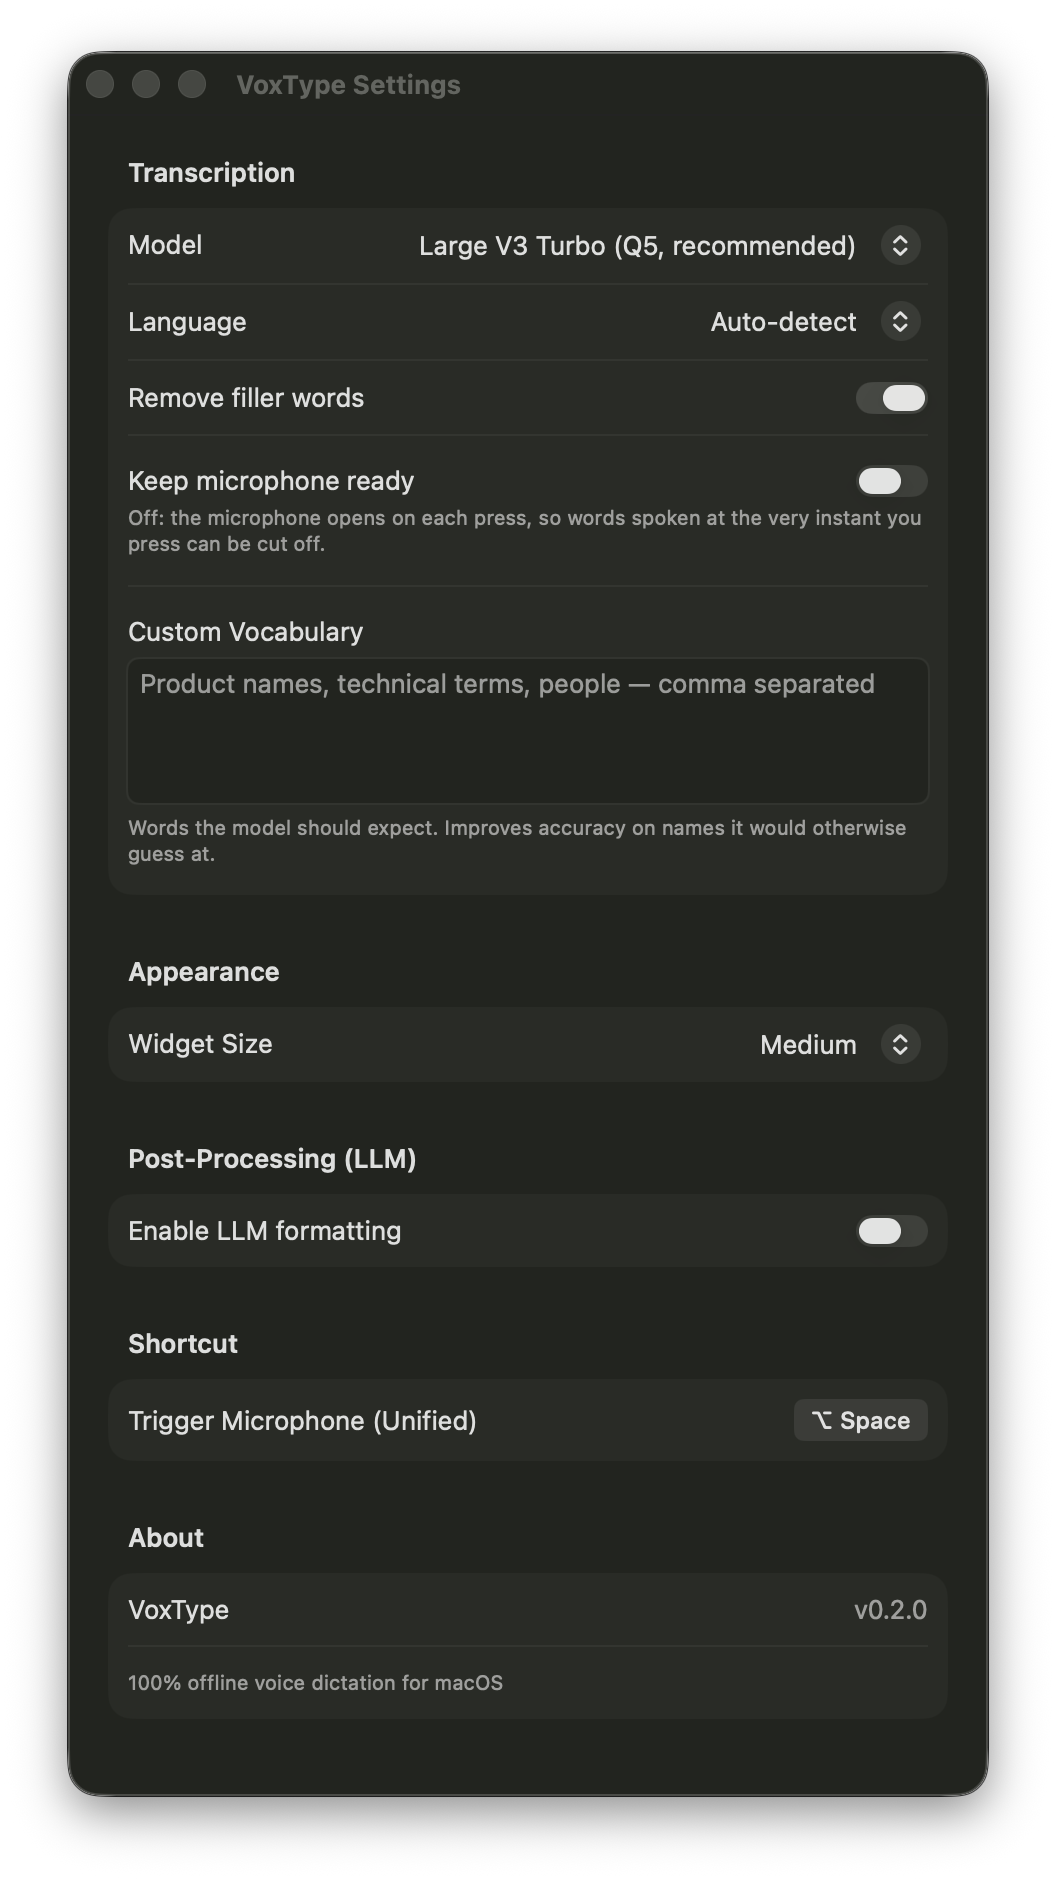
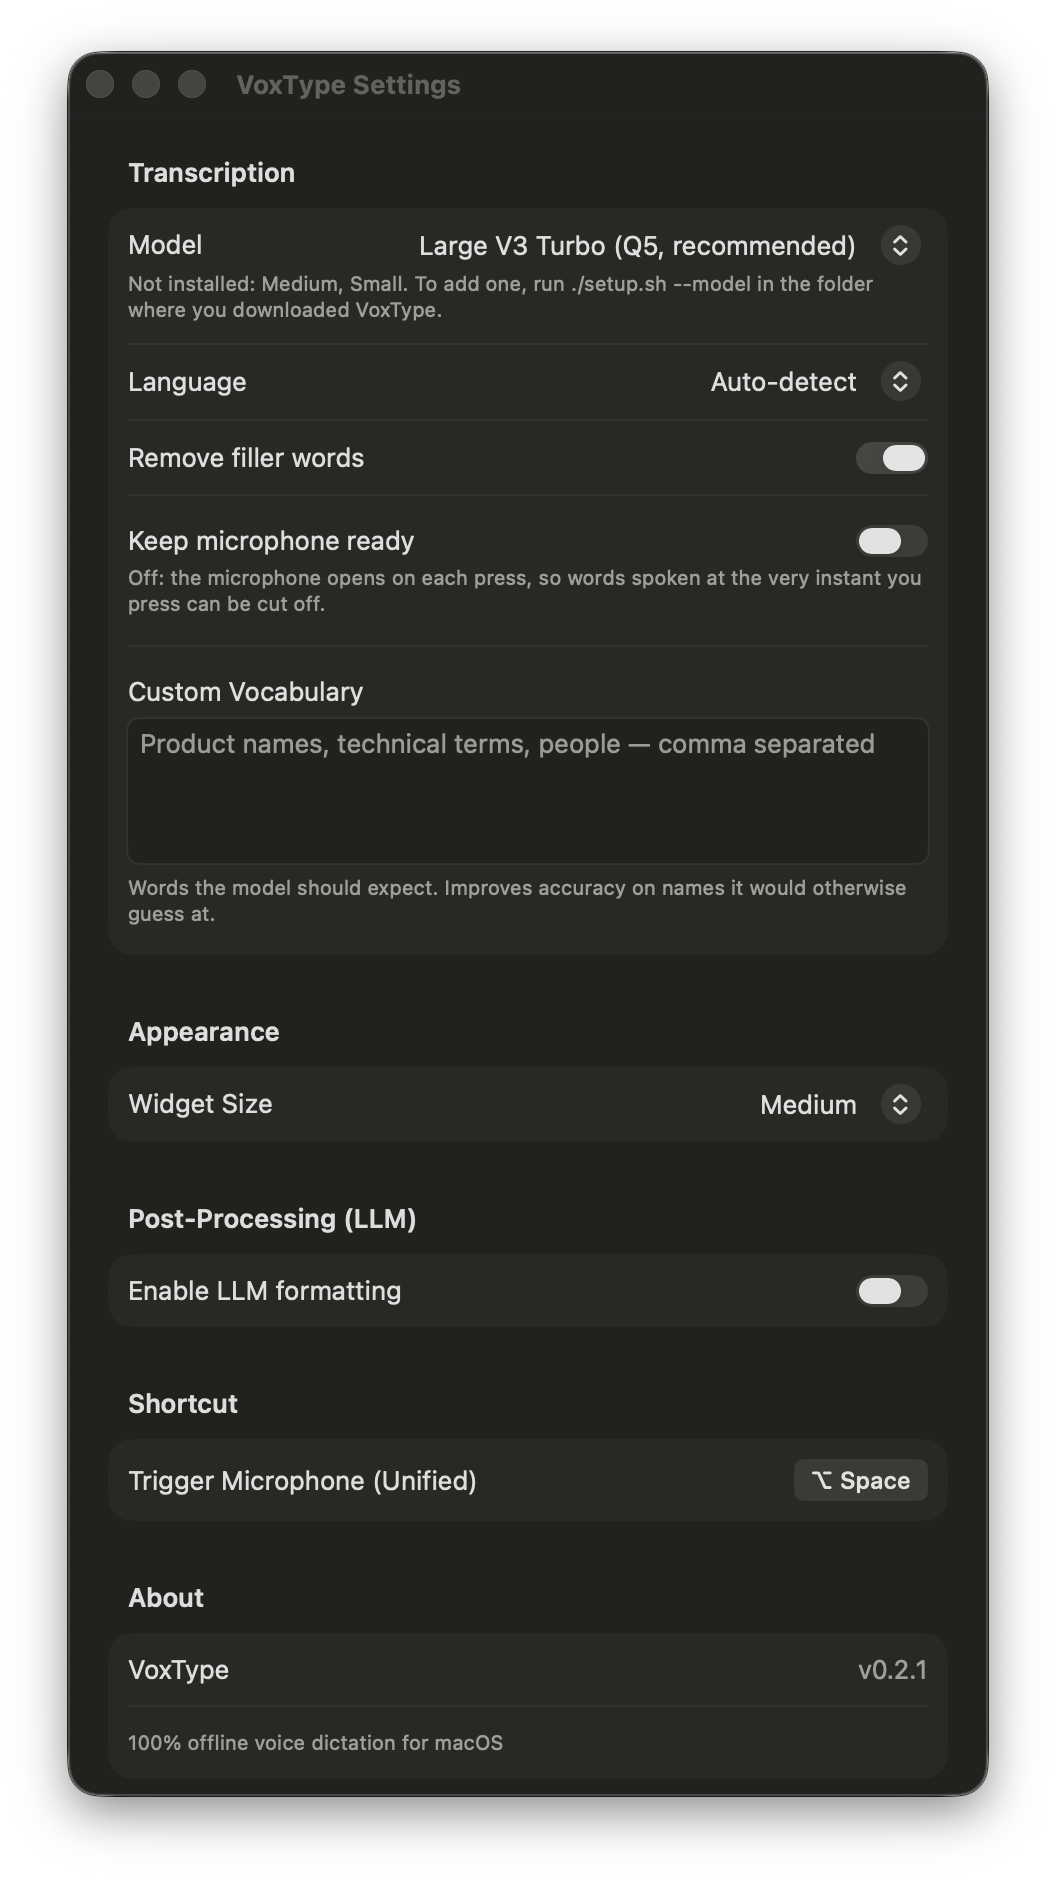
Release v0.2.1

diff --git a/VoxType/App/AppDelegate.swift b/VoxType/App/AppDelegate.swift
@@ -11,6 +11,7 @@ class AppDelegate: NSObject, NSApplicationDelegate {
     private let history = TranscriptionHistory.shared
     private let settings = AppSettings.shared
     private var warmObserver: AnyCancellable?
+    private var modelObserver: AnyCancellable?
 
     private var transcriptionTask: Task<Void, Never>?
     private var isCancelling = false
@@ -21,11 +22,21 @@ class AppDelegate: NSObject, NSApplicationDelegate {
         case idle
         case recording
         case processing
+
+        var allowsModelSwap: Bool {
+            switch self {
+            case .idle, .modelUnavailable: return true
+            case .loadingModel, .recording, .processing: return false
+            }
+        }
     }
 
     private var state: AppState = .idle {
         didSet {
             menuBarManager?.updateState(state)
+            if state == .idle {
+                DispatchQueue.main.async { [weak self] in self?.reloadModelIfNeeded() }
+            }
         }
     }
 
@@ -49,14 +60,64 @@ class AppDelegate: NSObject, NSApplicationDelegate {
             self?.audioRecorder.setWarm(warm)
         }
 
+        modelObserver = settings.$selectedModel
+            .dropFirst()
+            .removeDuplicates()
+            .receive(on: DispatchQueue.main)
+            .sink { [weak self] _ in self?.reloadModelIfNeeded() }
+
+        loadSelectedModel()
+    }
+
+    private func reloadModelIfNeeded() {
+        guard state.allowsModelSwap else { return }
+        guard whisperManager.loadedModel != settings.selectedModel || !whisperManager.isModelLoaded
+        else { return }
+        loadSelectedModel()
+    }
+
+    private func loadSelectedModel() {
+        let selected = settings.selectedModel
+        let previous = whisperManager.loadedModel
+        let isSwitch = previous != nil
+
+        guard let target = AppSettings.ModelOption.resolve(
+            selected: selected,
+            installed: AppSettings.ModelOption.installed(),
+            loaded: previous
+        ) else {
+            state = .modelUnavailable
+            showModelMissingAlert()
+            return
+        }
+
+        if target != selected {
+            Log.app.notice("Model \(selected.rawValue, privacy: .public) is not installed; using \(target.rawValue, privacy: .public)")
+            overlay.showNotice("\(selected.shortName) isn't installed — using \(target.shortName)")
+            settings.selectedModel = target
+        }
+
+        if target == previous && whisperManager.isModelLoaded {
+            if state == .modelUnavailable { state = .idle }
+            return
+        }
+
+        state = .loadingModel
         Task {
-            await whisperManager.loadModel()
+            await whisperManager.loadModel(target)
             await MainActor.run {
                 if whisperManager.isModelLoaded {
                     state = .idle
-                    if whisperManager.lastModelLoadMs > 2000 {
+                    if isSwitch {
+                        overlay.showNotice("Using \(target.shortName)")
+                    } else if whisperManager.lastModelLoadMs > 2000 {
                         menuBarManager.showNotification("Ready")
                     }
+                } else if let previous = previous, previous != target {
+                    Log.app.error("Could not load \(target.rawValue, privacy: .public); returning to \(previous.rawValue, privacy: .public)")
+                    overlay.showNotice("Couldn't load \(target.shortName) — back to \(previous.shortName)")
+                    settings.selectedModel = previous
+                    state = .modelUnavailable
                 } else {
                     state = .modelUnavailable
                     showModelMissingAlert()
@@ -172,7 +233,7 @@ class AppDelegate: NSObject, NSApplicationDelegate {
             llmEnabled: settings.ollamaEnabled,
             isColdStart: whisperManager.isColdStart
         )
-        PerfLog.shared.set("model", settings.selectedModel.rawValue)
+        PerfLog.shared.set("model", whisperManager.loadedModelName ?? "none")
         PerfLog.shared.set("model_load_ms", whisperManager.lastModelLoadMs)
 
         let levels = AudioLevels.measure(audioData)

diff --git a/VoxType/Transcription/WhisperManager.swift b/VoxType/Transcription/WhisperManager.swift
@@ -2,8 +2,11 @@ import Foundation
 
 class WhisperManager {
     private var context: OpaquePointer?
-    private var loadedModelName: String?
+    private(set) var loadedModel: AppSettings.ModelOption?
+    var loadedModelName: String? { loadedModel?.rawValue }
     private let settings = AppSettings.shared
+
+    private let engineLock = NSLock()
 
     var isModelLoaded: Bool { context != nil }
 
@@ -22,10 +25,7 @@ class WhisperManager {
 
     private(set) var lastLanguage: String?
 
-    var modelsDirectory: URL {
-        let appSupport = FileManager.default.urls(for: .applicationSupportDirectory, in: .userDomainMask).first!
-        return appSupport.appendingPathComponent("VoxType/Models")
-    }
+    var modelsDirectory: URL { AppSettings.ModelOption.modelsDirectory }
 
     static let vadModelFile = "ggml-silero-v5.1.2.bin"
     static let vadThreshold: Float = 0.5
@@ -59,16 +59,20 @@ class WhisperManager {
         return whisper_vad_segments_n_segments(segments) > 0
     }
 
-    func loadModel() async {
+    func loadModel(_ model: AppSettings.ModelOption) async {
         loadVADIfNeeded()
-        let modelFile = settings.selectedModel.fileName
+        engineLock.withLock { loadModelLocked(model) }
+    }
 
-        if loadedModelName == modelFile && context != nil { return }
+    private func loadModelLocked(_ model: AppSettings.ModelOption) {
+        let modelFile = model.fileName
+
+        if loadedModel == model && context != nil { return }
 
         if let ctx = context {
             whisper_free(ctx)
             context = nil
-            loadedModelName = nil
+            loadedModel = nil
         }
 
         try? FileManager.default.createDirectory(at: modelsDirectory, withIntermediateDirectories: true)
@@ -88,7 +92,7 @@ class WhisperManager {
         lastModelLoadMs = (CFAbsoluteTimeGetCurrent() - loadStart) * 1000
 
         if context != nil {
-            loadedModelName = modelFile
+            loadedModel = model
             isColdStart = true
             Log.transcription.info("Model loaded in \(self.lastModelLoadMs, format: .fixed(precision: 0)) ms")
         } else {
@@ -97,6 +101,10 @@ class WhisperManager {
     }
 
     func transcribe(audioData: [Float]) async -> String? {
+        engineLock.withLock { transcribeLocked(audioData) }
+    }
+
+    private func transcribeLocked(_ audioData: [Float]) -> String? {
         guard let ctx = context else {
             Log.transcription.error("Model not loaded")
             return nil
@@ -217,10 +225,13 @@ class WhisperManager {
     }
 
     func shutdown() {
-        if let ctx = context {
-            whisper_free(ctx)
-            context = nil
-            loadedModelName = nil
+        cancel()
+        engineLock.withLock {
+            if let ctx = context {
+                whisper_free(ctx)
+                context = nil
+                loadedModel = nil
+            }
         }
         if let vctx = vadContext {
             whisper_vad_free(vctx)

diff --git a/VoxType/UI/SettingsView.swift b/VoxType/UI/SettingsView.swift
@@ -13,12 +13,24 @@ struct SettingsView: View {
     var body: some View {
         Form {
             Section("Transcription") {
-                Picker("Model", selection: $settings.selectedModel) {
-                    ForEach(AppSettings.ModelOption.allCases) { option in
-                        Text(option.displayName).tag(option)
+                let installed = AppSettings.ModelOption.installed()
+                let missing = AppSettings.ModelOption.allCases.filter { !installed.contains($0) }
+                VStack(alignment: .leading, spacing: 4) {
+                    Picker("Model", selection: $settings.selectedModel) {
+                        ForEach(AppSettings.ModelOption.allCases.filter { installed.contains($0) }) { option in
+                            Text(option.displayName).tag(option)
+                        }
+                    }
+                    .pickerStyle(.menu)
+                    if !missing.isEmpty {
+                        Text("Not installed: \(missing.map(\.shortName).joined(separator: ", ")). "
+                             + "To add one, run ./setup.sh --model in the folder where you "
+                             + "downloaded VoxType.")
+                            .font(.caption)
+                            .foregroundStyle(.secondary)
+                            .fixedSize(horizontal: false, vertical: true)
                     }
                 }
-                .pickerStyle(.menu)
 
                 Picker("Language", selection: $settings.language) {
                     ForEach(AppSettings.LanguageOption.allCases) { option in

diff --git a/VoxType/Storage/AppSettings.swift b/VoxType/Storage/AppSettings.swift
@@ -19,7 +19,32 @@ class AppSettings: ObservableObject {
             case .small:      return "Small"
             }
         }
+        var shortName: String {
+            switch self {
+            case .largeTurbo: return "Large V3 Turbo"
+            case .medium:     return "Medium"
+            case .small:      return "Small"
+            }
+        }
         var fileName: String { rawValue + ".bin" }
+
+        static var modelsDirectory: URL {
+            let appSupport = FileManager.default.urls(for: .applicationSupportDirectory, in: .userDomainMask).first!
+            return appSupport.appendingPathComponent("VoxType/Models")
+        }
+
+        static func installed(in directory: URL = modelsDirectory) -> Set<ModelOption> {
+            Set(allCases.filter {
+                FileManager.default.fileExists(atPath: directory.appendingPathComponent($0.fileName).path)
+            })
+        }
+
+        static func resolve(selected: ModelOption, installed: Set<ModelOption>,
+                            loaded: ModelOption?) -> ModelOption? {
+            if installed.contains(selected) { return selected }
+            if let loaded = loaded { return loaded }
+            return allCases.first { installed.contains($0) }
+        }
     }
 
     enum LanguageOption: String, CaseIterable, Identifiable {

diff --git a/CHANGELOG.md b/CHANGELOG.md
@@ -6,6 +6,15 @@ To update an existing install, run `./setup.sh --update` from your VoxType folde
 
 ## [Unreleased]
 
+## [0.2.1] — 2026-10-08
+
+Choosing another speech model in Settings now works without restarting VoxType.
+
+### Fixed
+
+- **Choosing another speech model in Settings did nothing until VoxType was restarted.** The new model now loads as soon as VoxType is idle, and the widget confirms it (*Using Small*). If the chosen model isn't installed, VoxType keeps using one that is and says so.
+- Settings now lists only the models you have installed, and says how to add another one.
+
 ## [0.2.0] — 2026-10-08
 
 AI cleanup now answers in the language you spoke, VoxType no longer pastes anything when you didn't speak, and the widget stays put.
@@ -18,7 +27,7 @@ AI cleanup now answers in the language you spoke, VoxType no longer pastes anyth
 
 - **AI cleanup could change the language of your text.** With Ollama cleanup on, English dictation could come back in Spanish (and the other way around), and the Formatter sometimes answered a dictated question or wrote code instead of just correcting it. VoxType now tells the model which language you spoke, and the Formatter keeps your words.
 - **Pressing the shortcut without speaking pasted text.** Silence or room noise could turn into phrases like "And the other.", and the Assistant would reply to them and paste the reply.
-- **The widget jumped when recording started and stopped.** It no longer moves between states, no longer drifts sideways over many dictations, and opens in the right place.
+- **The widget jumped when recording started and stopped.** It no longer moves between states and no longer drifts sideways over many dictations.
 - **Changing the microphone while VoxType was open could stop recording.** It now follows the new input. If the input is an empty headphone jack (for example, speakers plugged in), the notice says to check System Settings → Sound.
 - Three labels in Settings were corrected.
 
